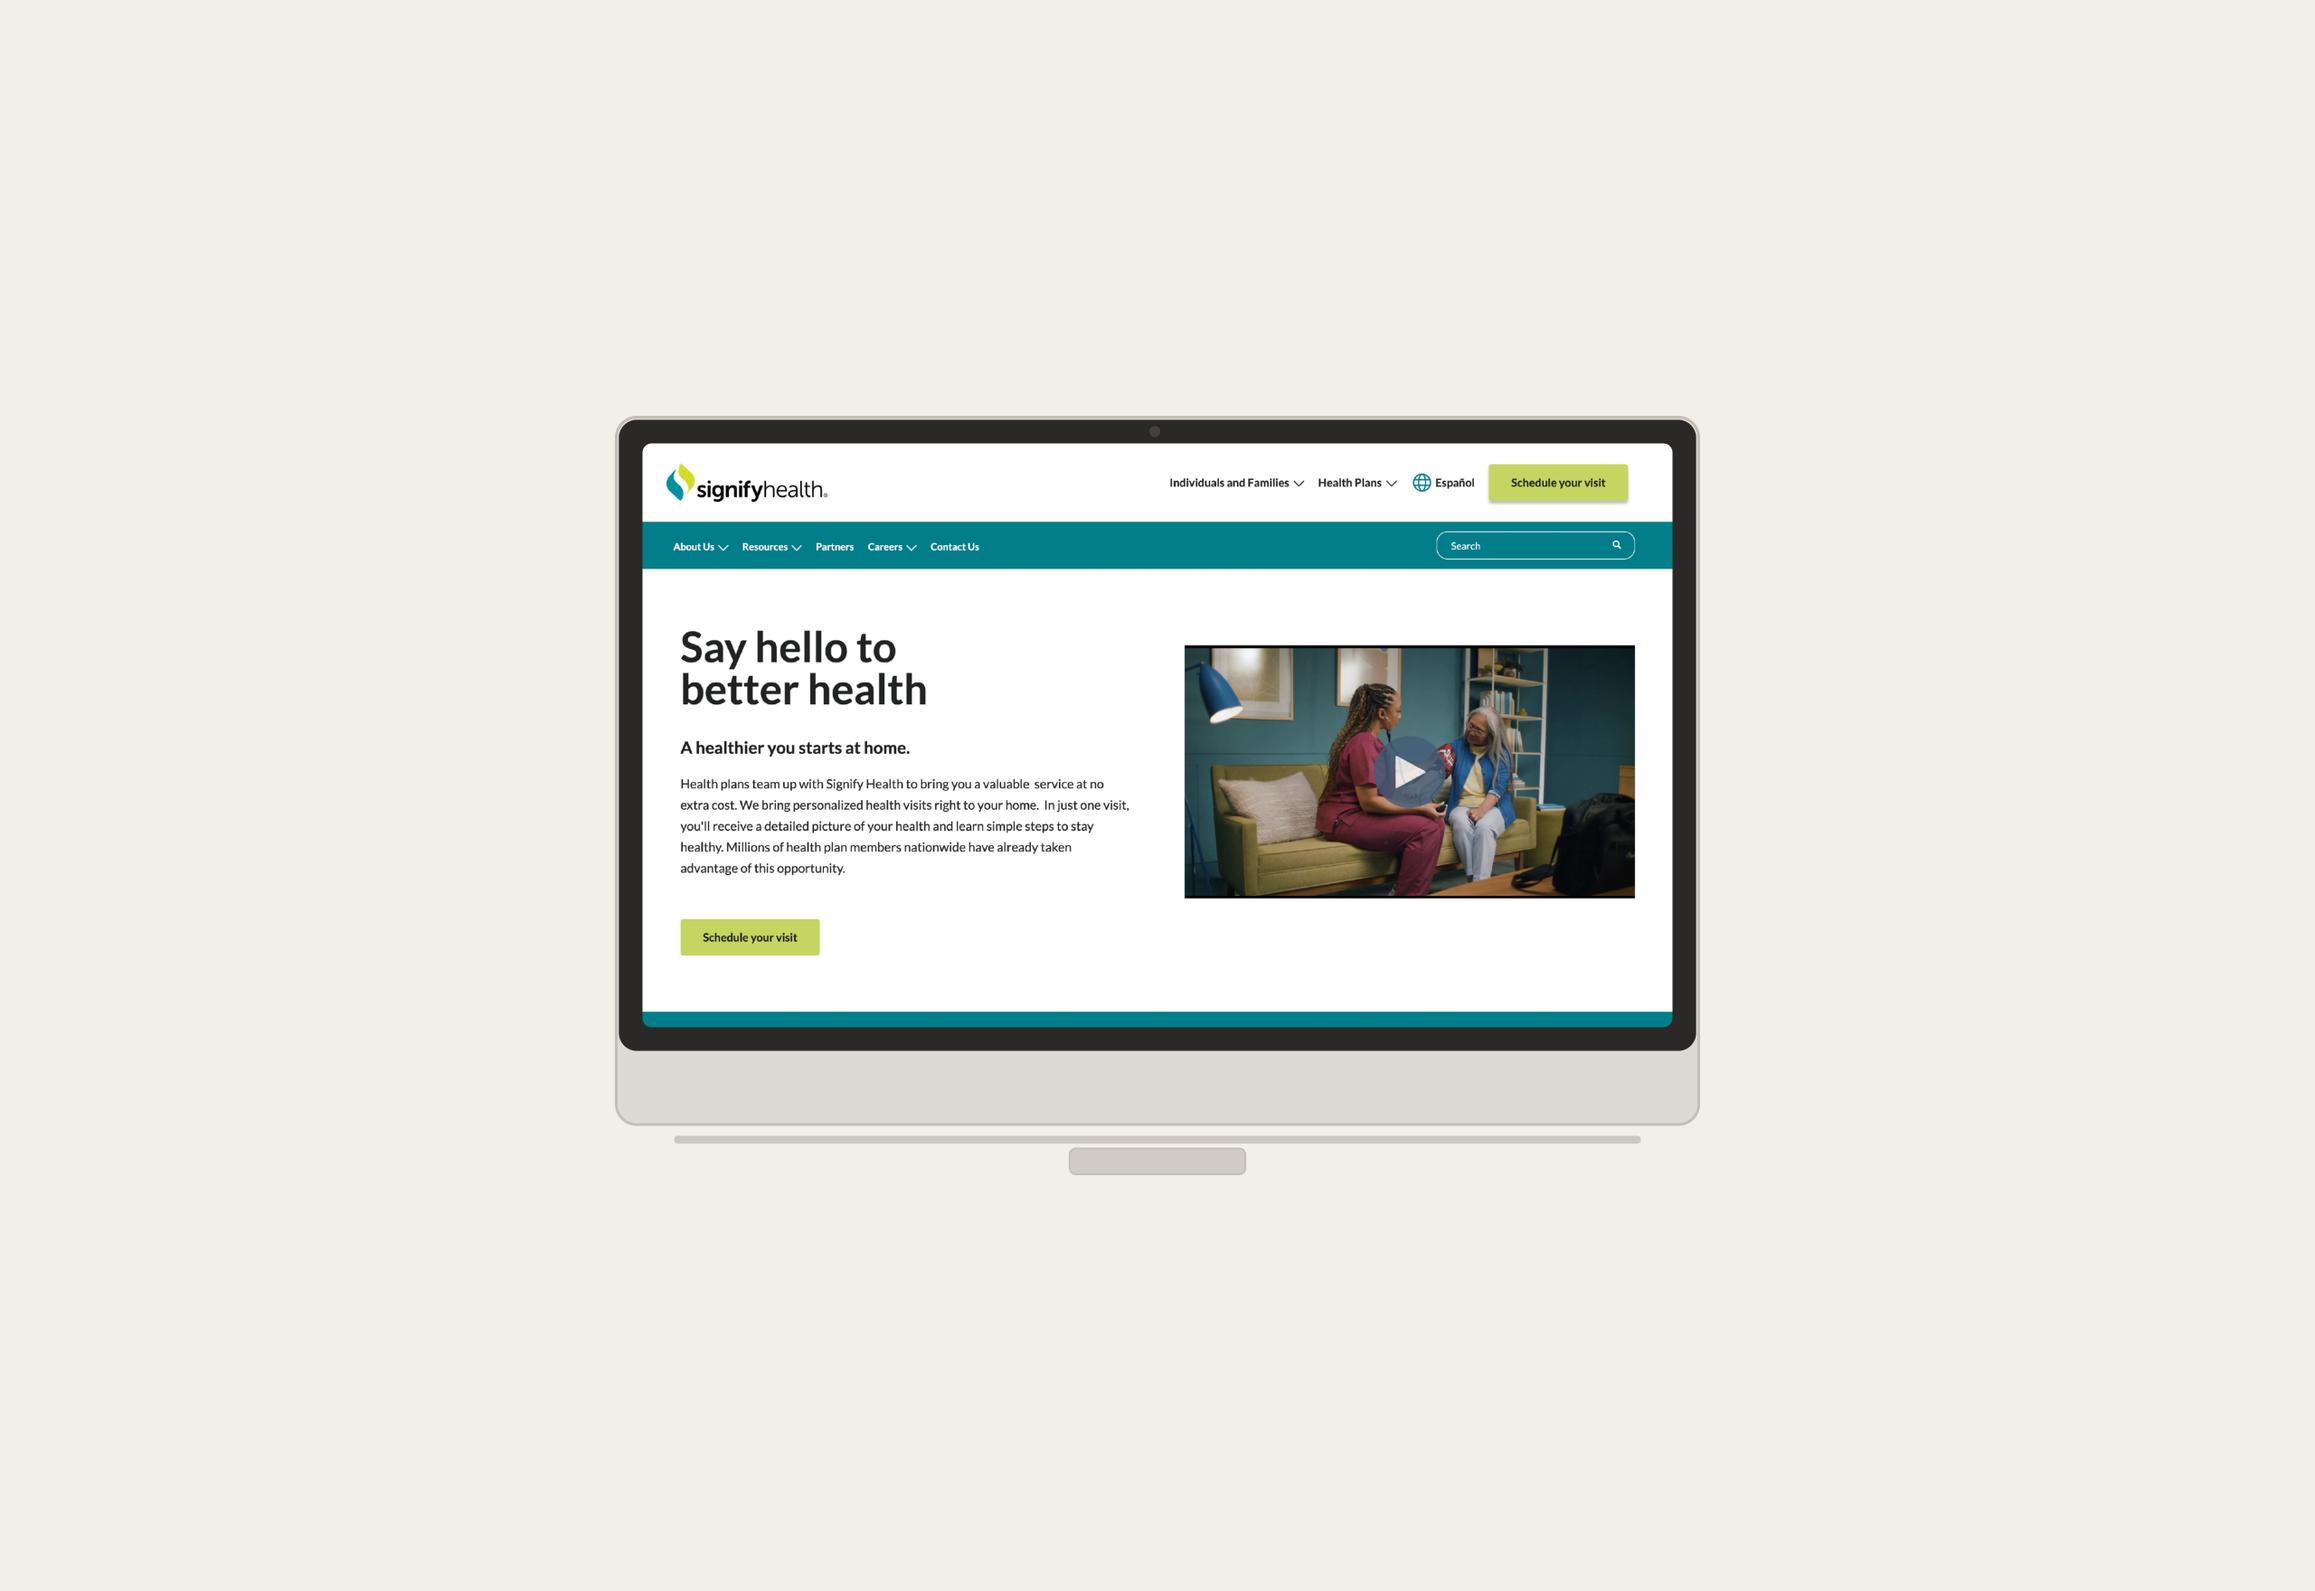
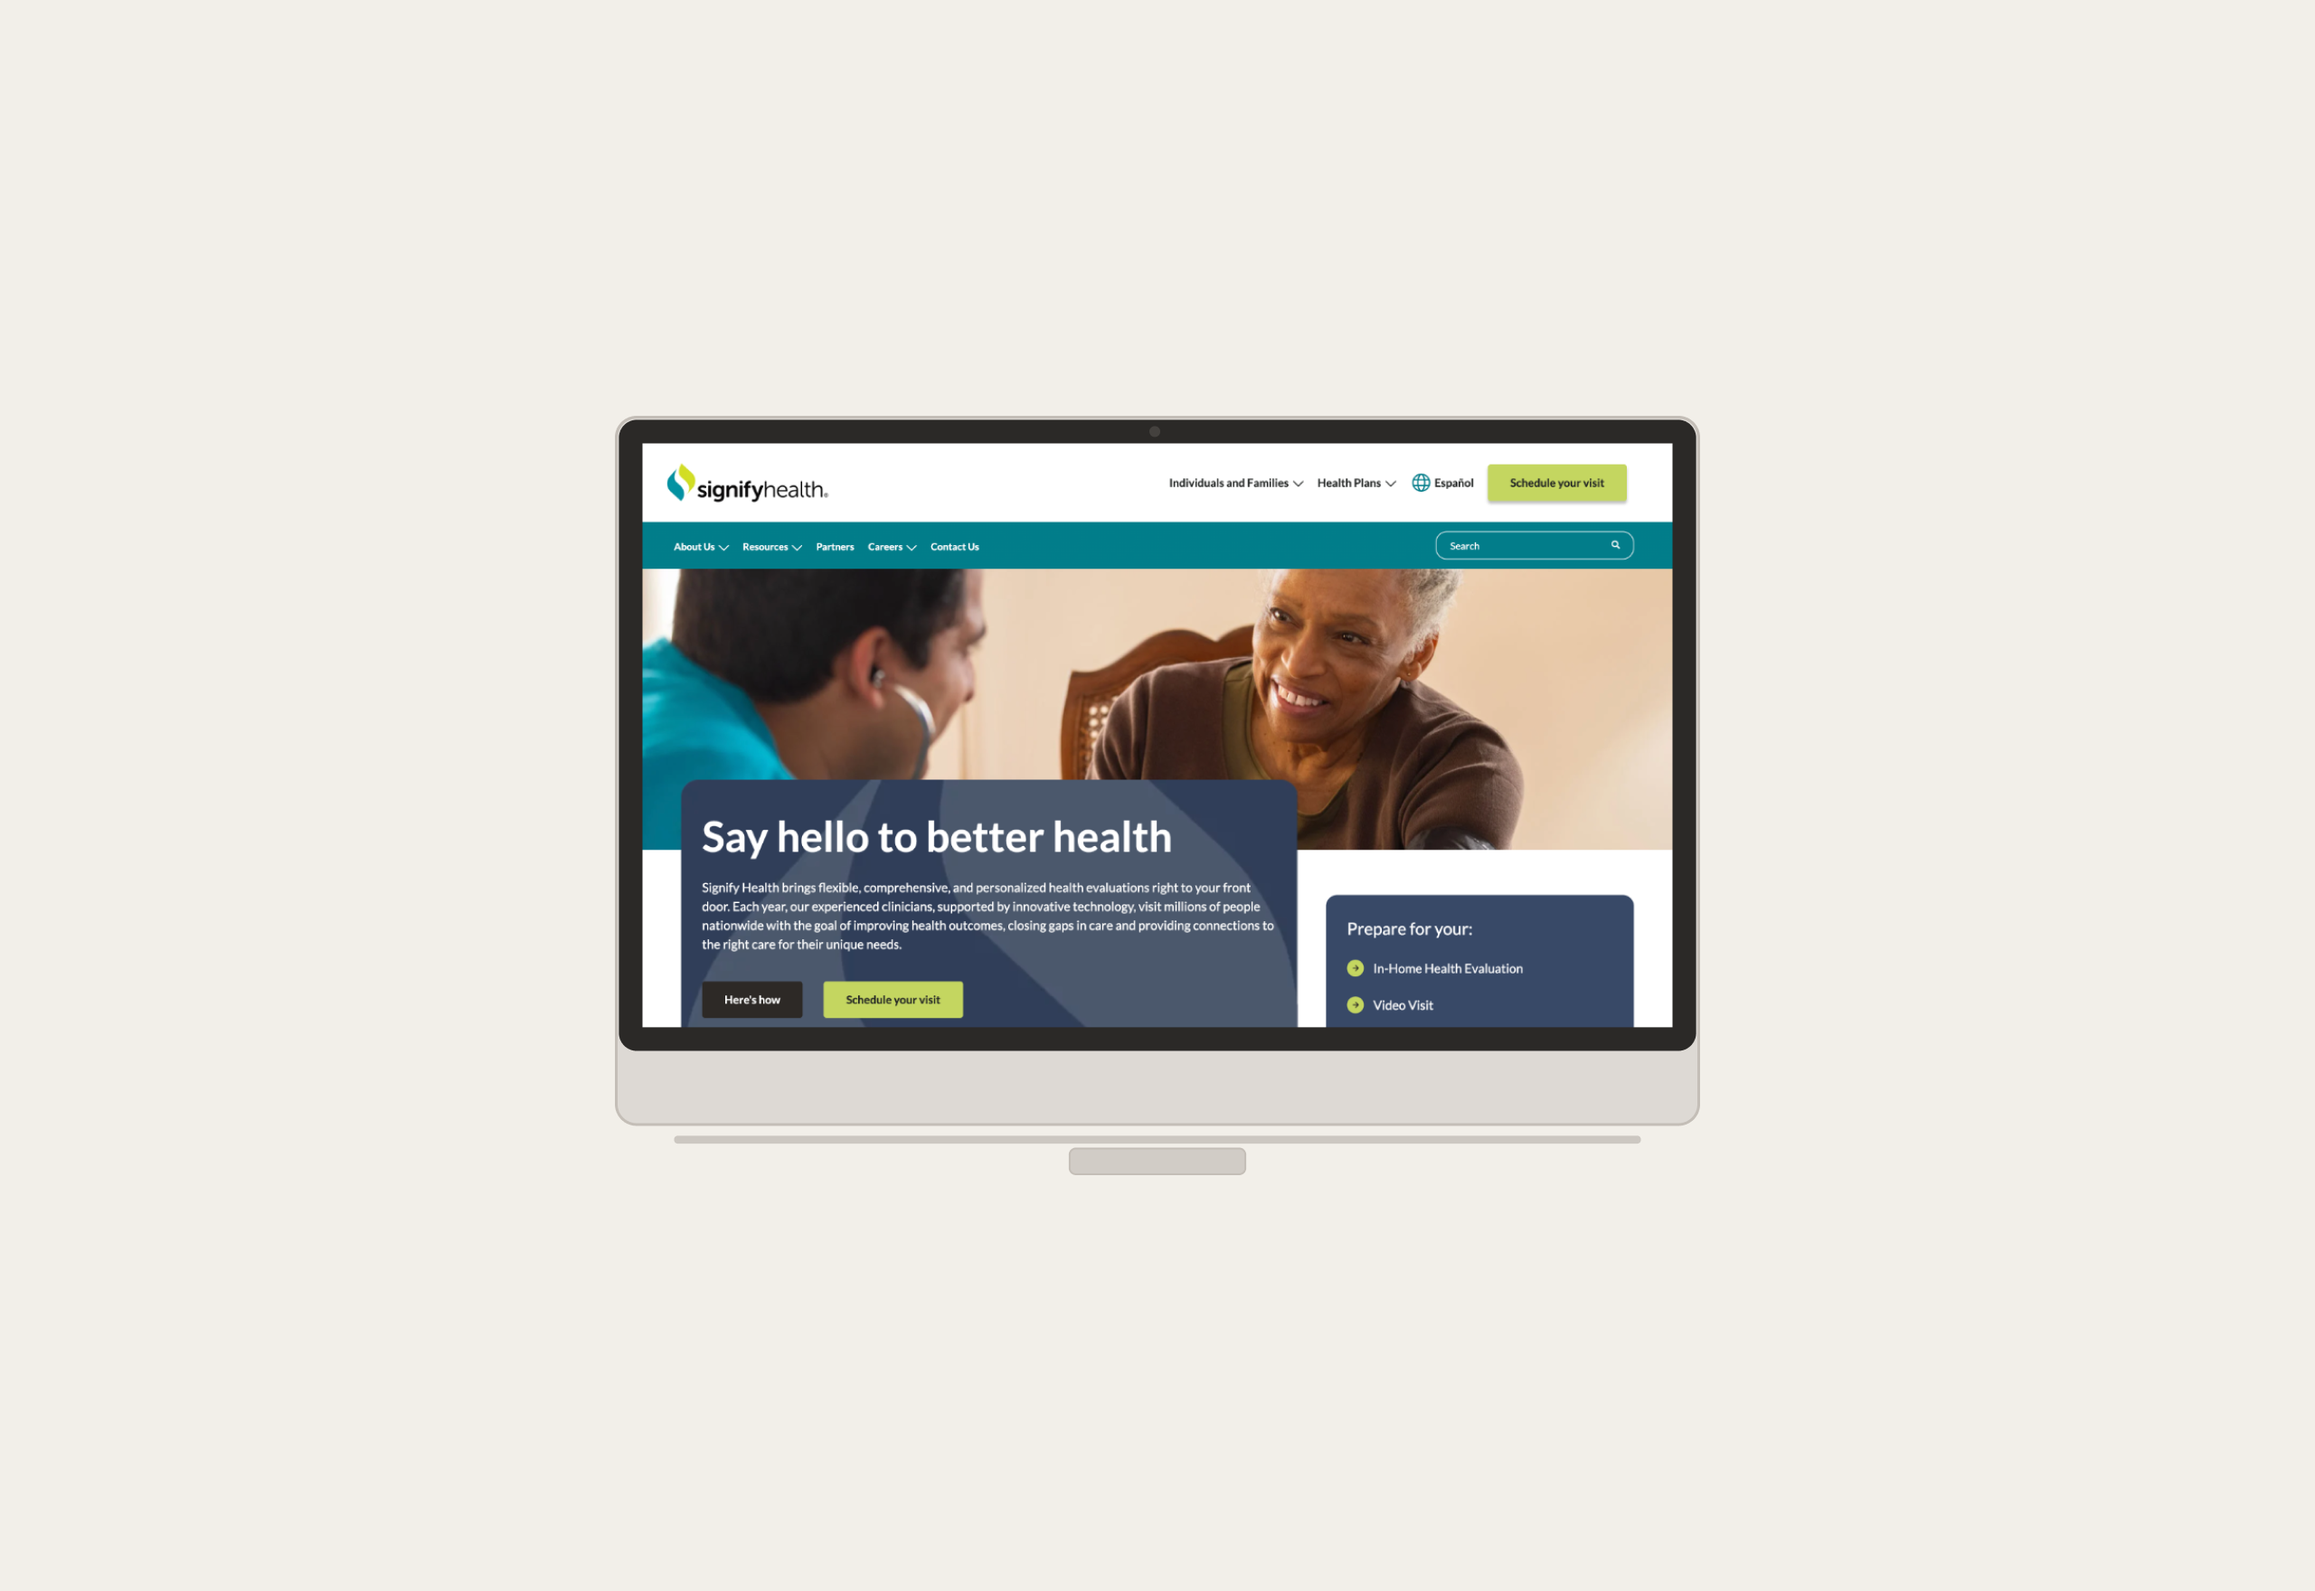
Fix My Work page image inconsistencies and stat
- Swap ihe-portal card image to standardized iMac mockup (was running an outdated smaller mockup)
- Swap ai-agent card image to higher-res export (1400x962 -> 2560x1760, matching the standard set)
- Update ihe-portal card stat from 3.5M+ to 2M+ to match the already-updated case study page

diff --git a/app/work/page.tsx b/app/work/page.tsx
@@ -6,7 +6,7 @@ const caseStudies = [
   { title: 'AI Interface Pattern Library', company: 'Self-Initiated', tags: ['AI Design', 'UX Research', 'Design Systems'], desc: 'Audited six conversational AI products against a standardized 23-prompt methodology, documented failure modes across six pattern categories, and built an interactive pattern library with formal definitions and React demos.', outcomes: [{ val: '6', label: 'Products audited' }, { val: 'Public', label: 'Empirically grounded pattern library' }], href: '/work/pattern-library', image: '/images/work/work-pattern-library-card.png' },
   { title: 'AI Feedback & Insights Agent', company: 'WTW', tags: ['Agentic Workflow Design', 'AI Design'], desc: 'Designed and deployed an agentic AI research pipeline that automated qualitative synthesis — transforming raw user feedback into structured, actionable insights with 95% categorization accuracy and eliminating a full day of manual analysis.', outcomes: [{ val: '95%', label: 'Categorization accuracy' }, { val: '8 hrs → 8 min', label: 'Synthesis time reduction' }], href: '/work/ai-agent', image: '/images/work/work-ai-agent-card.png' },
   { title: 'People-First Enrollment Redesign', company: 'WTW', tags: ['UX Research', 'Product Strategy'], desc: 'Dismantled a legacy product-first gate causing cognitive overwhelm and high abandonment — replacing it with an identity-driven enrollment flow that drove a 15% lift in total enrollments and 45% faster time-to-convert.', outcomes: [{ val: '45%', label: 'Faster time-to-convert' }, { val: '15%', label: 'Lift in enrollments' }, { val: '50%', label: 'Reduction in rage clicks' }], href: '/work/people-first', image: '/images/work/work-people-first-card.png' },
-  { title: 'IHE Scheduling Portal', company: 'Signify Health', tags: ['UX Research', 'UX Design'], desc: 'Led mixed-methods research to uncover why members declined free in-home health evaluations — findings that directly informed a trust-first scheduling portal redesign.', outcomes: [{ val: '73 NPS', label: 'Post-visit satisfaction' }, { val: '3.5M+', label: 'Annual IHEs completed' }, { val: '6', label: 'Barrier categories identified' }], href: '/work/ihe-portal', image: '/images/work/work-ihe-portal-card.png' },
+  { title: 'IHE Scheduling Portal', company: 'Signify Health', tags: ['UX Research', 'UX Design'], desc: 'Led mixed-methods research to uncover why members declined free in-home health evaluations — findings that directly informed a trust-first scheduling portal redesign.', outcomes: [{ val: '73 NPS', label: 'Post-visit satisfaction' }, { val: '2M+', label: 'Annual IHEs completed' }, { val: '6', label: 'Barrier categories identified' }], href: '/work/ihe-portal', image: '/images/work/work-ihe-portal-card.png' },
   { title: 'From Checkboxes to Conversations', company: 'Self-Initiated', tags: ['AI Design', 'UX Research', 'Interaction Design'], desc: "Audited Squarespace's Blueprint AI across two user journeys, documented 20 distinct failure modes, and redesigned three key moments — grounded in the principles I use every time I work with AI as a design tool.", outcomes: [{ val: '20', label: 'Failure modes documented' }, { val: '22', label: 'Intents audited' }, { val: '3', label: 'Redesigned moments' }], href: '/work/squarespace-redesign', image: '/images/work/work-squarespace-redesign-card.png' },
   { title: 'The Portfolio Is the Product', company: 'Self-Initiated', tags: ['Design Technologist', 'AI-Native Workflow', 'Product Thinking'], desc: 'Built a custom Next.js portfolio site from scratch — with a bespoke design system, AI as an execution layer, and product thinking applied to every decision. Under 2 weeks from concept to shipped site.', outcomes: [{ val: '12+', label: 'Pages designed and built' }, { val: '< 2 weeks', label: 'Concept to shipped' }, { val: '90%', label: 'Hosting cost reduction' }], href: '/work/the-portfolio', image: '/images/work/work-the-portfolio-card.png' },
   { title: 'Honest Design System', company: 'Self-Initiated', tags: ['Design Systems', 'Design Technologist'], desc: 'Built a production design system for alikhandesign.com — 39 components, a two-layer token architecture, full Figma-to-code parity, Storybook documentation, and WCAG 2.1 AA throughout.', outcomes: [{ val: '39', label: 'Components' }, { val: 'WCAG 2.1 AA', label: 'Accessibility standard' }, { val: '1:1', label: 'Figma-to-code parity' }], href: '/work/honest-design-system', image: '/images/work/work-honest-design-system-card.png' },
